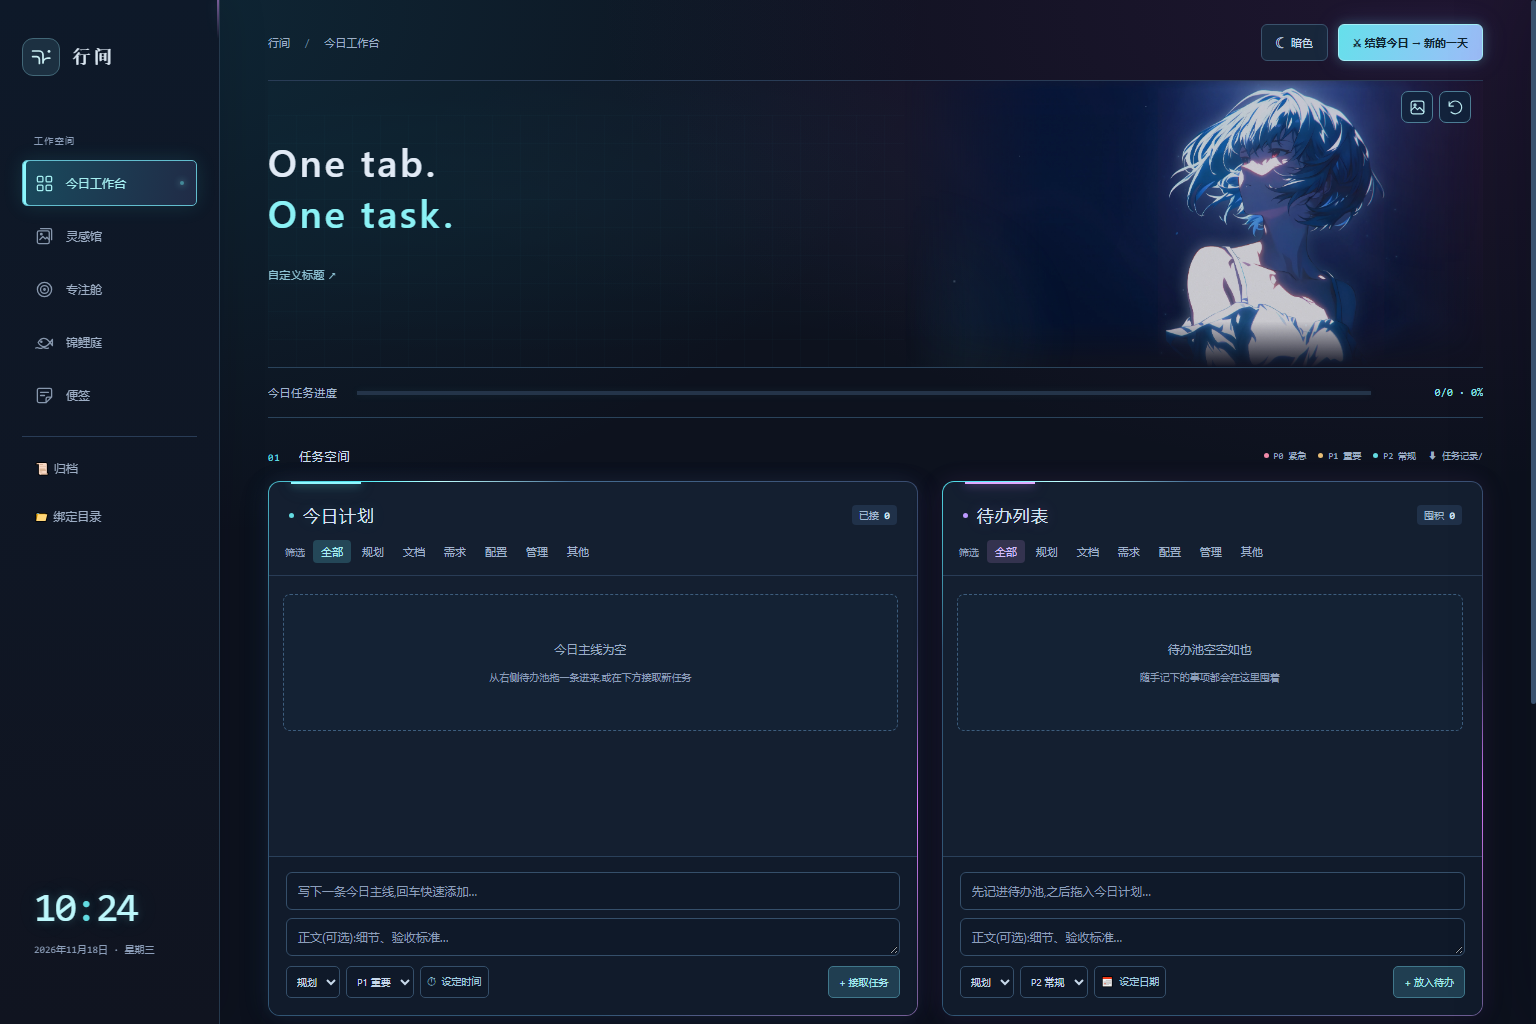
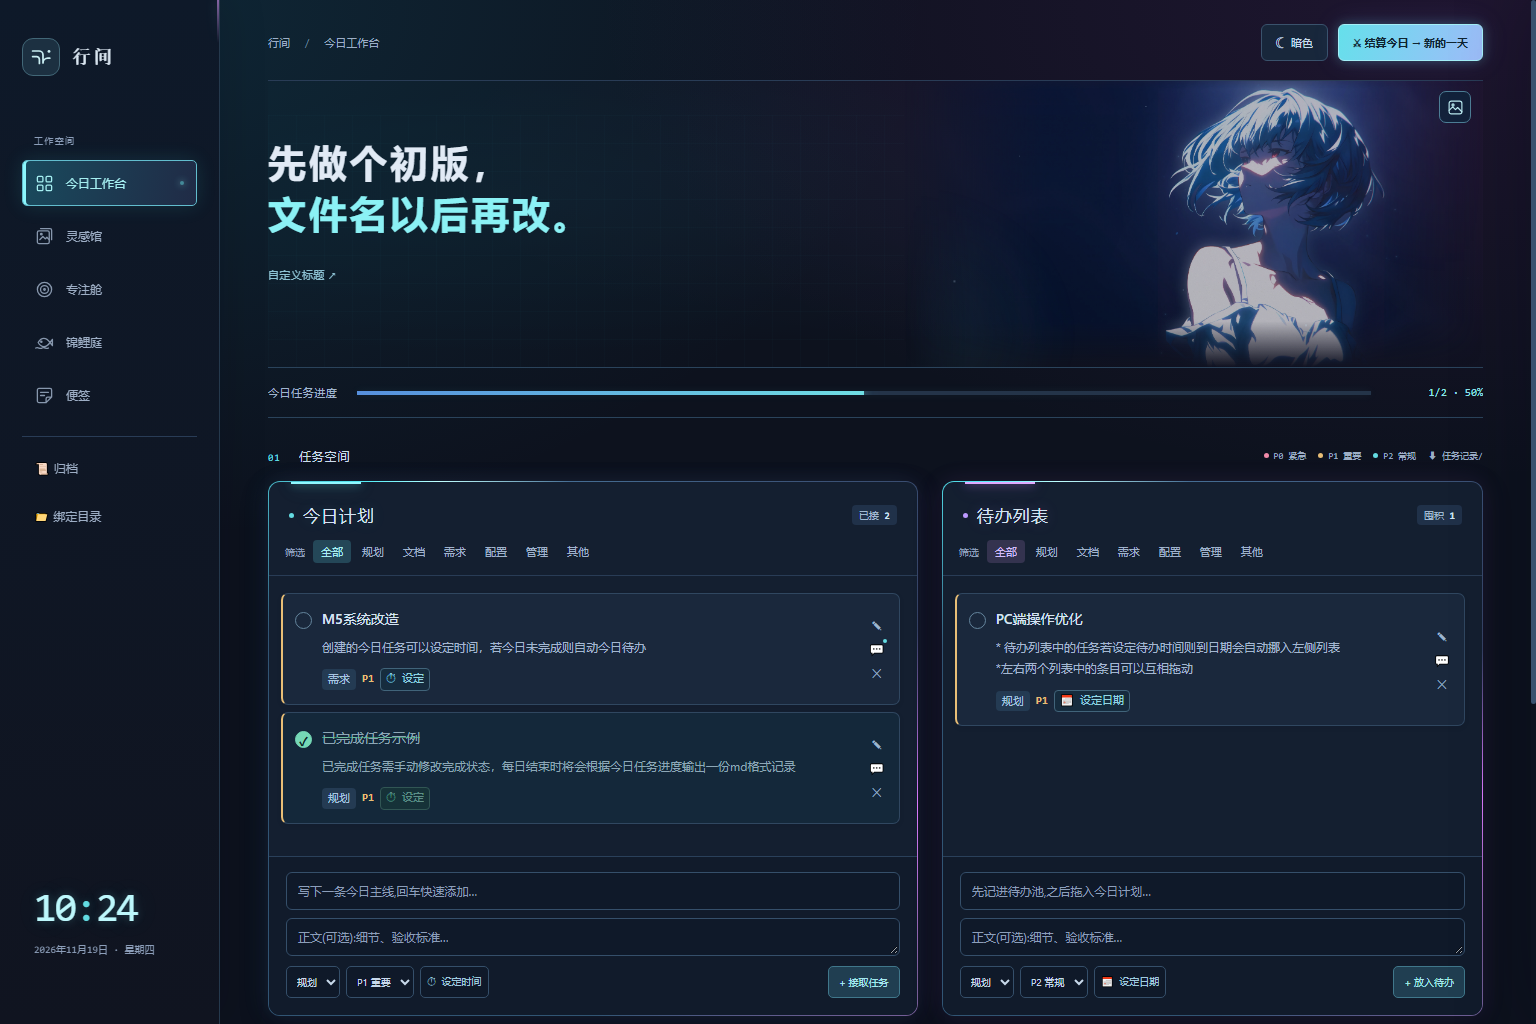
更新行间内置示例和界面预览

diff --git a/行间.html b/行间.html
@@ -338,8 +338,7 @@ input,textarea,select{font-family:inherit; color:var(--ink)}
 .qcard.late .qtitle:hover{color:#ffcdc2}
 .qcard.done .qtitle{color:var(--dim); text-decoration:line-through; text-decoration-color:rgba(87,207,143,.6); font-weight:500}
 .qbodywrap{grid-area:body; min-width:0}
-.qbody{font-size:11.5px; color:var(--mut); line-height:1.5; margin-top:2px; word-break:break-all;
-  display:-webkit-box; -webkit-line-clamp:2; -webkit-box-orient:vertical; overflow:hidden}
+.qbody{font-size:11.5px; color:var(--mut); line-height:1.5; margin-top:2px; white-space:pre-wrap; overflow-wrap:anywhere}
 .qcard.done .qbody{color:#4c655d}
 .qmeta{grid-area:meta; align-self:start; display:flex; gap:5px; align-items:center; flex-wrap:wrap; margin-top:3px}
 .cat{font-size:9.5px; padding:1px 6px; border-radius:4px; letter-spacing:.08em; background:rgba(255,255,255,.055); color:var(--mut); border:1px solid var(--line)}
@@ -861,6 +860,24 @@ function defaultState(){
   };
 }
 
+function addExampleTasks(state){
+  state.main=[
+    {"id":"example-main-1","text":"M5系统改造","body":"创建的今日任务可以设定时间，若今日未完成则自动今日待办","cat":"req","prio":"P1","due":"","time":"","note":"这里可以进行备注","done":false,"doneAt":"","delayMin":0,"from":null},
+    {"id":"example-main-2","text":"已完成任务示例","body":"已完成任务需手动修改完成状态，每日结束时将会根据今日任务进度输出一份md格式记录","cat":"plan","prio":"P1","due":"","time":"","note":"","done":true,"doneAt":"12:27","delayMin":0,"from":null}
+  ];
+  state.side=[
+    {"id":"example-side-1","text":"PC端操作优化","body":"* 待办列表中的任务若设定待办时间则到日期会自动挪入左侧列表\n*左右两个列表中的条目可以互相拖动","cat":"plan","prio":"P1","due":"","time":"","note":"","done":false,"doneAt":"","delayMin":0,"from":null}
+  ];
+}
+
+function hasOnlyExampleTasks(state){
+  if(state.summary||state.mood||state.buff||state.archives?.length) return false;
+  const example={};
+  addExampleTasks(example);
+  return JSON.stringify(state.main)===JSON.stringify(example.main)
+    && JSON.stringify(state.side)===JSON.stringify(example.side);
+}
+
 function load(){
   try{const raw=localStorage.getItem(KEY); if(raw){const s=JSON.parse(raw); if(s&&s.date) return s;}}catch(e){}
   return null;
@@ -901,7 +918,10 @@ async function tryRestoreFromDiskBackup(){
       }catch(e2){return false}
     }
     const disk=JSON.parse(await file.text());
-    if(stateScore(disk)<=stateScore(S)) return false;
+    const diskScore=stateScore(disk);
+    if(diskScore<0) return false;
+    const canReplaceExamples=hasOnlyExampleTasks(S)||(IS_NEW&&!load());
+    if(!canReplaceExamples && diskScore<=stateScore(S)) return false;
     S=disk;
     try{localStorage.setItem(KEY,JSON.stringify(S))}catch(e){}
     return true;
@@ -1702,6 +1722,7 @@ document.getElementById('btnDlMd').addEventListener('click',()=>{saveMD(S.archiv
   try{
     const restored=await tryRestoreFromDiskBackup();
     if(restored) toast('📁 已从任务记录自动备份恢复数据');
+    if(IS_NEW&&!restored&&!load()) addExampleTasks(S);
     if(S.date!==todayStr()) setTimeout(()=>settle(false),600);
     else if(IS_NEW||restored) save();
     const sum=document.getElementById('summaryText');

diff --git a/assets/header-artwork.css b/assets/header-artwork.css
@@ -43,5 +43,5 @@ html[data-theme="light"] .hero-visual .hud-art.custom-artwork{opacity:.7;filter:
 .artwork-controls :is(#artworkChoose,#artworkReset):disabled{cursor:wait}
 
 /* Bundled theme defaults; custom images continue to use their own centered crop. */
-html[data-theme="dark"] .hero-visual .hud-art:not(.custom-artwork){background-image:url('../Banner/暗色/夜航.png');background-position:center top;background-size:cover}
-html[data-theme="light"] .hero-visual .hud-art:not(.custom-artwork){background-image:url('../Banner/亮色/纸间.png');background-position:center;background-size:cover}
+html[data-theme="dark"] .hero-visual .hud-art:not(.custom-artwork){background-image:url('../Banner/暗色/蓝色夜景.png');background-position:center top;background-size:cover}
+html[data-theme="light"] .hero-visual .hud-art:not(.custom-artwork){background-image:url('../Banner/亮色/白色晴光.jpg');background-position:center;background-size:cover}

diff --git a/README.md b/README.md
@@ -6,16 +6,16 @@
 
 ### 亮色主题
 
-![行间亮色工作台，使用「白色晴光」Banner](docs/dashboard-light.png)
+![行间亮色工作台，展示内置任务示例和「白色晴光」Banner](docs/dashboard-light.png)
 
 ### 暗色主题
 
-![行间暗色工作台，使用「蓝色夜景」Banner](docs/dashboard-dark.png)
+![行间暗色工作台，展示内置任务示例和「蓝色夜景」Banner](docs/dashboard-dark.png)
 
 ## 开始使用
 
 1. 下载并解压整个项目，保留 `行间.html`、`assets/` 和 `Banner/` 的相对位置。
-2. 用 **浏览器** 打开 `行间.html`。不需要安装依赖、启动服务或登录。首次使用从空白工作台开始。需要绑定目录时，建议使用 Chrome 或 Edge。
+2. 用 **浏览器** 打开 `行间.html`。不需要安装依赖、启动服务或登录。首次使用会显示三条内置示例，可直接编辑或删除。浏览器已有的任务和可恢复的目录备份优先使用。需要绑定目录时，建议使用 Chrome 或 Edge。
 3. 想把每日记录写成文件，可在左侧「绑定目录」中选择自己创建的「任务记录」和「归档」文件夹。浏览器弹出授权时，确认位置后再允许写入。
 
 ## 五个空间
@@ -28,7 +28,7 @@
 | 锦鲤庭 | 观鱼、投喂、跟随呼吸、放叶，可切换天气与亮暗外观。 |
 | 便签 | 在画布上书写、拖动和调整大小，可分组、隐藏、恢复，或将一个想法收录进灵感馆。 |
 
-可以自行切换亮、暗两种主题，两种主题拥有独立的界面配色和 Banner 设置。点击首页 Banner 角落的图片图标，可选择内置素材、读取自选目录或上传图片。
+可以自行切换亮、暗两种主题，两种主题拥有独立的界面配色和 Banner 设置。亮色默认使用「白色晴光」，暗色默认使用「蓝色夜景」。点击首页 Banner 角落的图片图标，可选择内置素材、读取自选目录或上传图片。
 
 ## 发送到 Obsidian
 
@@ -51,7 +51,7 @@
 行间.html    页面入口与每日工作台
 assets/      各模块、主题与内置图形
 Banner/      亮暗主题的默认横幅及备选图片
-docs/        README 预览图（使用空白工作台）
+docs/        README 预览图（展示内置任务）
 tests/       功能和数据格式测试
 ```
 
